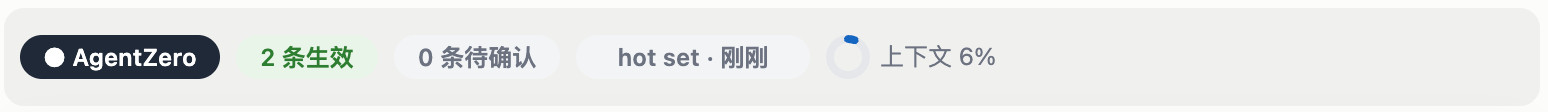
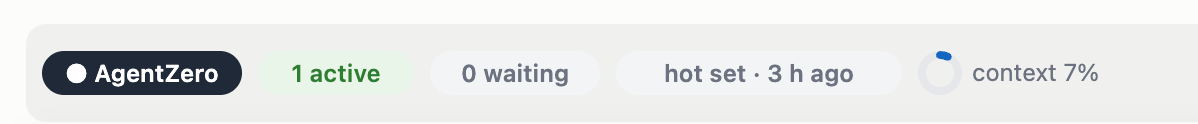
README: the English memory band screenshot

diff --git a/README.md b/README.md
@@ -128,7 +128,7 @@ To see the proposed Facts, run `./a0 memory review` in your project folder. You 
 
 A band above the prompt shows the state of the memory at all times:
 
-![The memory band: 2 Facts active, 0 waiting, hot set loaded just now, context 6% used](docs/hud/band.png)
+![The memory band: 1 Fact active, 0 waiting, hot set loaded 3 hours ago, context 7% used](docs/hud/band.png)
 
 - **The band** shows how many Facts are active, how many wait for your yes, when the hot set was last loaded, and how much of the conversation space is used. When the hot set cannot be loaded, its pill turns red and says why.
 - **The pane.** When something waits, the band shows a button, `Review`. It opens a pane at the side. Each item has two buttons: `✓ Keep` and `✗ Reject`. The plugin runs AgentZero's own `review` command for you, and the band count changes.
